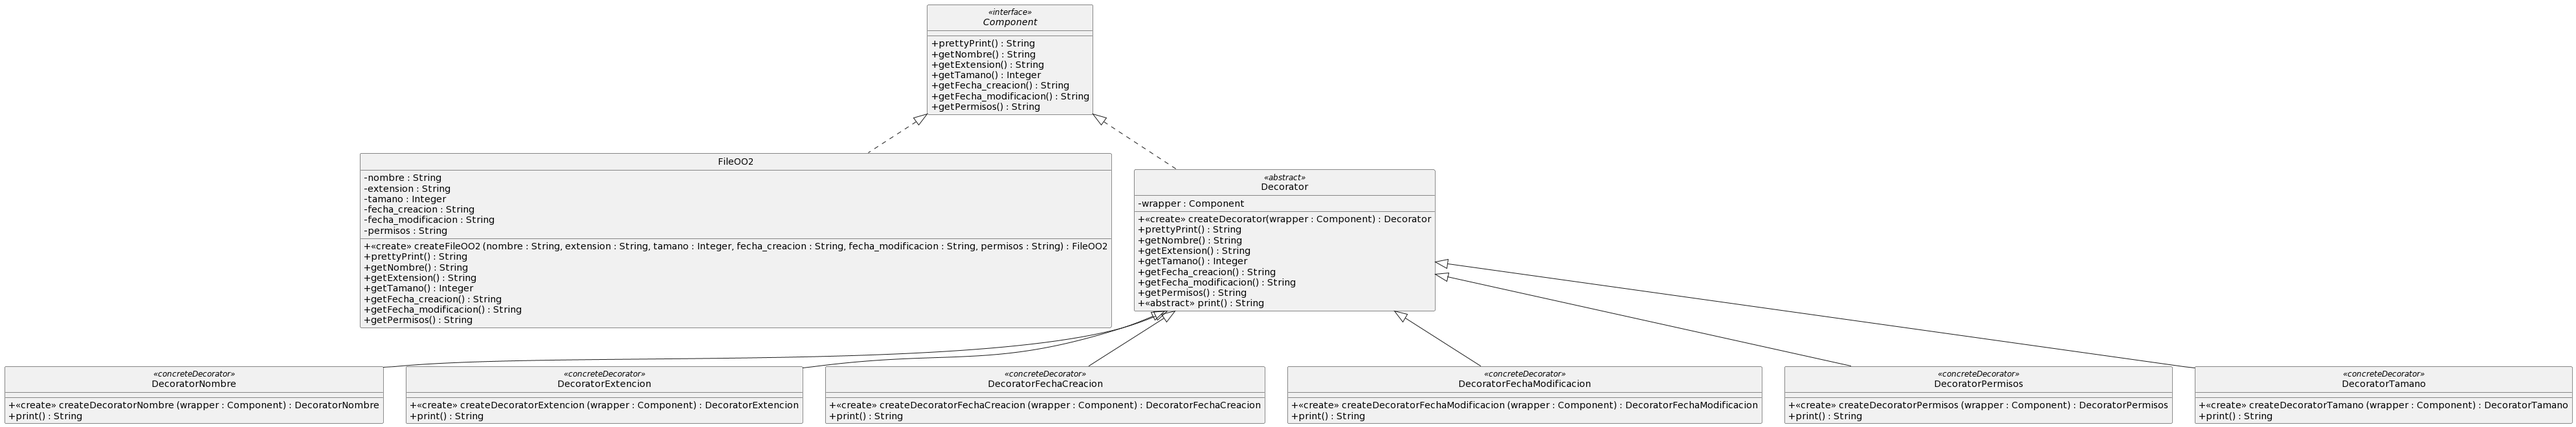
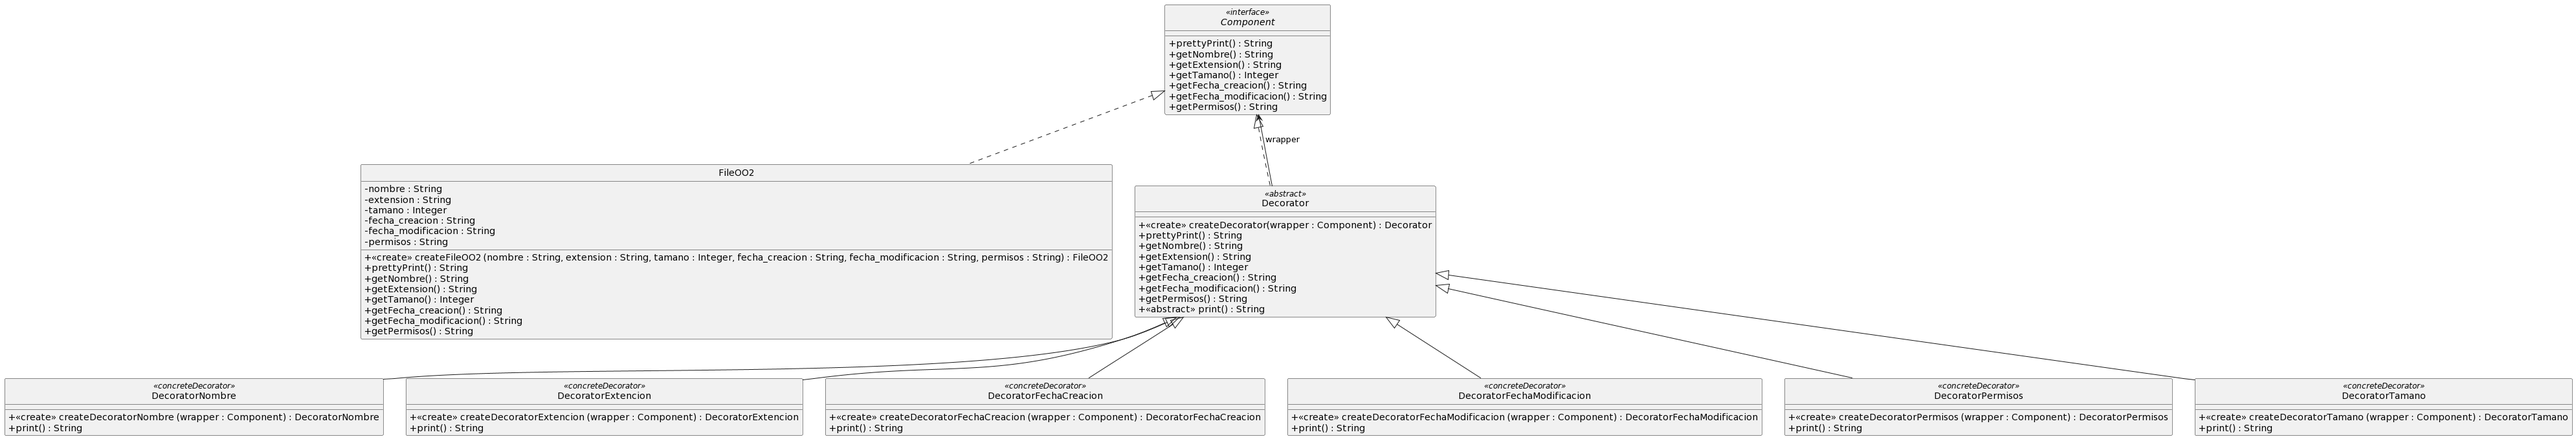
Actualizado tests y un bug java del eje 10, y agregado UML del eje 10, 14, 15

diff --git a/ejercicio_10/src/test/java/ar/edu/unlp/info/oo2/ejercicio_10/ProyectosTest.java b/ejercicio_10/src/test/java/ar/edu/unlp/info/oo2/ejercicio_10/ProyectosTest.java
@@ -21,12 +21,43 @@ public class ProyectosTest {
 		proyecto = new Proyecto();
 		date1 = LocalDate.of(2023, 4, 23);
 		date2 = LocalDate.of(2023, 4, 30);
-		proyecto.crearProyecto("Vacaciones de invierno", date1, date2, "salir con amigos", 3, 500);
-		proyecto.aprobarEtapa();
+		proyecto.crearProyecto("Vacaciones de invierno", date1, date2, "salir con amigos", 3, 500);;
 	}
     @Test
     public void testSolicitado() {
+		proyecto.aprobarEtapa();
         proyecto.aprobarEtapa();
         assertEquals("Confirmado", proyecto.getState().getClass().getSimpleName());
     }
+    
+    @Test
+    public void testEnConstruccion() {
+    	assertEquals("Construccion", proyecto.getState().getClass().getSimpleName());
+    }
+    
+    @Test
+    public void testCosto() {
+    	assertEquals(10500, proyecto.costoProyecto());
+    }
+    
+    @Test
+    public void testPrecio() {
+    	assertEquals(11235, proyecto.precioProyecto());
+    }
+    
+    @Test
+    public void testCancelar() {
+    	assertEquals("salir con amigos", proyecto.getObjetivo());
+    	proyecto.cancelarProyecto();
+    	assertEquals("(Cancelado)", proyecto.getObjetivo());
+    	assertEquals("Cancelado", proyecto.getState().getClass().getSimpleName());
+    }
+    
+    /* COMENTADO PORQUE LANZA EL ERROR CORRECTAMENTE
+     * @Test
+    public void testErrorAprobar() {
+    	Proyecto proyecto2 = new Proyecto();
+    	proyecto.crearProyecto("Algo", date1, date2, "no se", 1, 0);
+    	proyecto.aprobarEtapa();
+    }*/
 }

diff --git a/ejercicio_10/src/main/java/ar/edu/unlp/info/oo2/ejercicio_10/Proyecto.java b/ejercicio_10/src/main/java/ar/edu/unlp/info/oo2/ejercicio_10/Proyecto.java
@@ -70,7 +70,7 @@ public class Proyecto {
 	}
 	
 	public double costoProyecto() {
-		return ((int) ChronoUnit.DAYS.between(this.getInicio(), this.getFin())) * this.getIntegrantes();
+		return ((int) ChronoUnit.DAYS.between(this.getInicio(), this.getFin())) * (this.getIntegrantes() * this.getMonto());
 	}
 	
 	public double precioProyecto() {
@@ -83,6 +83,10 @@ public class Proyecto {
 	
 	public void changeMargen(int margen) {
 		this.margen = margen;
+	}
+	
+	public void cancelarProyecto() {
+		this.state.cancelarProyecto(this);
 	}
 	
 }
